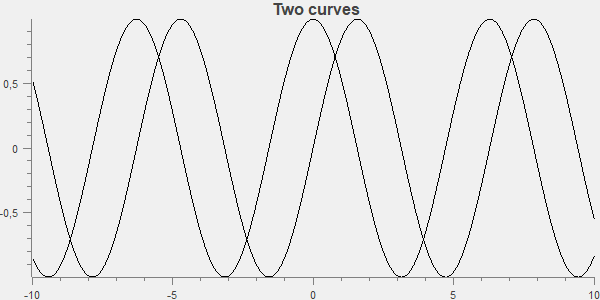
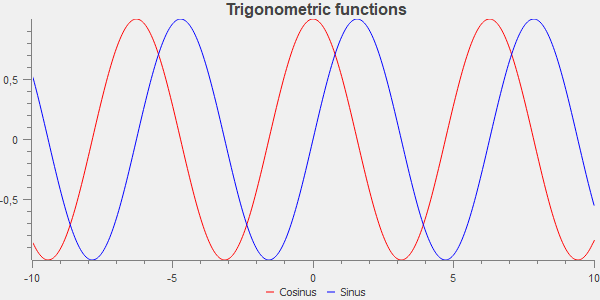
Updated simple example (added to README.md)

diff --git a/qwt/plot.py b/qwt/plot.py
@@ -239,26 +239,17 @@ class QwtPlot(QFrame, QwtPlotDict):
     The following example is a good starting point to see how to set up a 
     plot widget::
     
-        from .qt.QtGui import QApplication
-        from qwt import QwtPlot, QwtPlotCurve
+        import qwt
         import numpy as np
 
-        app = QApplication([])
-
+        app = qwt.qt.QtGui.QApplication([])
         x = np.linspace(-10, 10, 500)
-        y1, y2 = np.cos(x), np.sin(x)
-
-        my_plot = QwtPlot("Two curves")
-        curve1, curve2 = QwtPlotCurve("Curve 1"), QwtPlotCurve("Curve 2")
-        curve1.setData(x, y1)
-        curve2.setData(x, y2)
-        curve1.attach(my_plot)
-        curve2.attach(my_plot)
-        my_plot.resize(600, 300)
-        my_plot.replot()
-        my_plot.show()
-
-        app.exec_()
+        plot = qwt.QwtPlot("Trigonometric functions")
+        plot.insertLegend(qwt.QwtLegend(), qwt.QwtPlot.BottomLegend)
+        qwt.QwtPlotCurve.make(x, np.cos(x), "Cosinus", plot, linecolor="red", antialiased=True)
+        qwt.QwtPlotCurve.make(x, np.sin(x), "Sinus", plot, linecolor="blue", antialiased=True)
+        plot.resize(600, 300)
+        plot.show()
         
     .. image:: /images/QwtPlot_example.png
         

diff --git a/doc/plot_example.py b/doc/plot_example.py
@@ -1,24 +1,18 @@
-from qwt.qt.QtGui import QApplication
-from qwt import QwtPlot, QwtPlotCurve
+import qwt
 import numpy as np
+
+app = qwt.qt.QtGui.QApplication([])
+x = np.linspace(-10, 10, 500)
+plot = qwt.QwtPlot("Trigonometric functions")
+plot.insertLegend(qwt.QwtLegend(), qwt.QwtPlot.BottomLegend)
+qwt.QwtPlotCurve.make(x, np.cos(x), "Cosinus", plot, linecolor="red", antialiased=True)
+qwt.QwtPlotCurve.make(x, np.sin(x), "Sinus", plot, linecolor="blue", antialiased=True)
+plot.resize(600, 300)
+plot.show()
+
 import os.path as osp
 
-app = QApplication([])
-
-x = np.linspace(-10, 10, 500)
-y1, y2 = np.cos(x), np.sin(x)
-
-my_plot = QwtPlot("Two curves")
-curve1, curve2 = QwtPlotCurve("Curve 1"), QwtPlotCurve("Curve 2")
-curve1.setData(x, y1)
-curve2.setData(x, y2)
-curve1.attach(my_plot)
-curve2.attach(my_plot)
-my_plot.resize(600, 300)
-my_plot.replot()
-my_plot.show()
-
-my_plot.grab().save(
+plot.grab().save(
     osp.join(osp.abspath(osp.dirname(__file__)), "images", "QwtPlot_example.png")
 )
 

diff --git a/README.md b/README.md
@@ -79,7 +79,7 @@ From the source package:
 python setup.py install
 ```
 
-## Examples/tests
+## Examples (tests)
 
 The GUI-based test launcher may be executed from Python:
 
@@ -93,3 +93,21 @@ or from the command line:
 ```bash
 PythonQwt-tests
 ```
+
+## Sample
+
+```python
+import qwt
+import numpy as np
+
+app = qwt.qt.QtGui.QApplication([])
+x = np.linspace(-10, 10, 500)
+plot = qwt.QwtPlot("Trigonometric functions")
+plot.insertLegend(qwt.QwtLegend(), qwt.QwtPlot.BottomLegend)
+qwt.QwtPlotCurve.make(x, np.cos(x), "Cosinus", plot, linecolor="red", antialiased=True)
+qwt.QwtPlotCurve.make(x, np.sin(x), "Sinus", plot, linecolor="blue", antialiased=True)
+plot.resize(600, 300)
+plot.show()
+```
+
+<img src="https://raw.githubusercontent.com/PierreRaybaut/PythonQwt/master/doc/images/QwtPlot_example.png">
